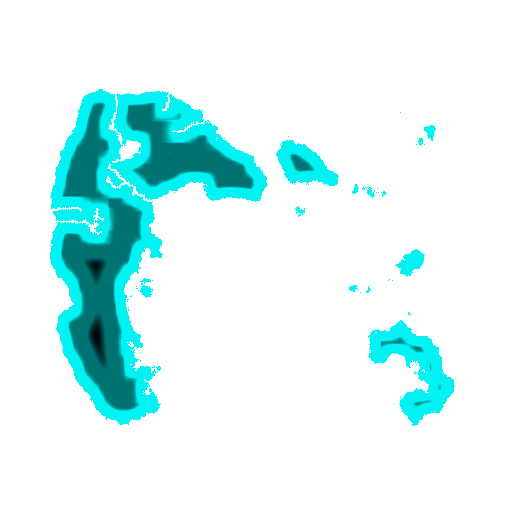
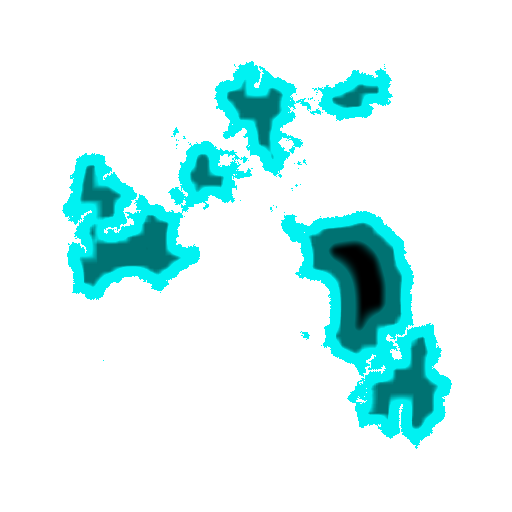
Implemented initial empire generation

diff --git a/src/generation/civ/CityGen.java b/src/generation/civ/CityGen.java
@@ -1,6 +1,7 @@
 package generation.civ;
 
 import java.util.ArrayList;
+import java.util.LinkedList;
 import java.util.List;
 import java.util.Random;
 
@@ -9,17 +10,19 @@ public class CityGen {
 	Random rGen;
 	List<City> cities;
 
+	public int maxID;
+	
 	public CityGen(long seed) {
 		rGen = new Random(seed);
 		cities = new ArrayList<City>();
 	}
 
 	public float[][] buildCities(float[][] heightmap, float[][] moisture, float[][] binary) {
-		
+
 		int size = moisture.length;
 		int numCities = size;
 
-		float[][] civMap = new float[size][size];
+		int[][] civMap = new int[size][size];
 
 		List<int[]> coords = new ArrayList<int[]>();
 
@@ -31,24 +34,120 @@ public class CityGen {
 				}
 			}
 		}
-		
+
+		int cityNum = 1;
+
 		for (int i = 0; i < numCities; i++) {
 			if (coords.size() == 0)
 				break;
 			int index = rGen.nextInt(coords.size());
 			int[] c = coords.get(index);
 			coords.remove(index);
-			civMap[c[0]][c[1]] = 1;
-			cities.add(new City(c[0], c[1]));
+			civMap[c[0]][c[1]] = cityNum;
+			cities.add(new City(c[0], c[1], cityNum++));
+		}
+
+		return growCities(civMap, binary);
+	}
+
+	private float[][] growCities(int[][] civMap, float[][] binaryMap) {
+		int size = civMap.length;
+		int openTiles = 0;
+		List<Territory> territories = new ArrayList<Territory>();
+		float[][] map = new float[size][size];
+		
+		int maxID = 0;
+		
+		for (int i = 0; i < size; i++) {
+			for (int j = 0; j < size; j++) {
+				if (binaryMap[i][j] > 0) openTiles ++;
+				if (civMap[i][j] > 0) {
+					territories.add(new Territory(civMap[i][j], i, j));
+					maxID = Math.max(maxID, civMap[i][j]);
+				}
+			}
+		}
+		System.out.println(maxID + " max");
+		
+		int limit = 100000;
+		
+		List<Territory> toAdd = new LinkedList<Territory>();
+		
+		while (openTiles > 0 && limit > 0) {
+			System.out.println(limit);
+			for (Territory t: territories) {
+				//pick a neighbor
+				int i = t.x; int j = t.y;
+				if (t.strength <= 1) {
+					t.strength++;
+				} else if (t.strength >=5 ) {
+				//donothing
+				} else {
+					switch(rGen.nextInt(6)) {
+					default:
+					case 0: //fortify!
+						t.strength ++;
+						break;
+					case 1:
+						if (binaryMap[i+1][j] > 0) {
+							if (civMap[i+1][j] == 0) {
+								openTiles--;
+								civMap[i+1][j] = t.id;
+								t.strength --;
+								toAdd.add(new Territory(t.id, i+1,j));
+							}
+						}
+						break;
+					case 2:
+						if (binaryMap[i-1][j] > 0) {
+							if (civMap[i-1][j] == 0) {
+								openTiles--;
+								civMap[i-1][j] = t.id;
+								t.strength --;
+								toAdd.add(new Territory(t.id, i-1,j));
+							}						}
+						break;
+					case 3:
+						if (binaryMap[i][j+1] > 0) {
+							if (civMap[i][j+1] == 0) {
+								openTiles--;
+								civMap[i][j+1] = t.id;
+								t.strength --;
+								toAdd.add(new Territory(t.id, i,j+1));
+
+							}						}
+						break;
+					case 4:
+						if (binaryMap[i][j-1] > 0) {
+							if (civMap[i][j-1] == 0) {
+								openTiles--;
+								civMap[i][j-1] = t.id;
+								t.strength --;
+								toAdd.add(new Territory(t.id, i,j-1));
+							}						}
+						break;
+					}
+				}
+			}
+			territories.addAll(toAdd);
+			toAdd.clear();
+			limit--;
 		}
 		
-		growCities(civMap, binary);
 		
-		return civMap;
-	}
-	
-	private void growCities(float[][] civMap, float[][] binaryMap) {
+		for (int i = 0; i < size; i++) {
+			for (int j = 0; j < size; j++) {
+				if (binaryMap[i][j] > 0) openTiles ++;
+				if (civMap[i][j] > 0) {
+					territories.add(new Territory(civMap[i][j], i, j));
+					maxID = Math.max(maxID, civMap[i][j]);
+				}
+				map[i][j] = civMap[i][j];
+			}
+		}
 		
+		this.maxID = maxID;
+		return map;
 	}
 
 }

diff --git a/src/generation/GenTest2.java b/src/generation/GenTest2.java
@@ -6,6 +6,7 @@ import generation.civ.CityGen;
 import java.awt.image.BufferedImage;
 import java.io.File;
 import java.io.IOException;
+import java.util.Random;
 
 import javax.imageio.ImageIO;
 
@@ -28,6 +29,8 @@ public class GenTest2 {
 
 	int size = 512; //bufferedimage size ~512 is recommended
 
+	Random rGen = new Random(seed);
+	
 	Heightmap heightGen;
 	ColorGen colorGen;
 	WaterGen waterGen;
@@ -109,6 +112,8 @@ public class GenTest2 {
 		//create images
 		int a = 255; //transparency
 
+		int[] cityColor = new int[cityGen.maxID+1];
+		
 		for (int i = 0; i < size; i++) {
 			for (int j = 0; j < size; j++) {
 
@@ -164,15 +169,18 @@ public class GenTest2 {
 
 				waterImage.setRGB(i, j, color);
 
+				int id = (int) cities[i][j];
+				if (id > 0) {
+					if (cityColor[id] == 0) {
+						r = rGen.nextInt(128) + 127;
+						g = rGen.nextInt(128) + 127;
+						b = rGen.nextInt(128) + 127;
+						color = (a << 24) | (r << 16) | (g << 8) | b;
+						cityColor[id] = color;
+					}
+				} 
 				
-				if (cities[i][j] > 0.5) {
-					r = 0; g = 0; b = 0;
-				} else if (cities[i][j] > 0) {
-					r = 128; g = 128; b = 128;
-				}
-				
-				color = (a << 24) | (r << 16) | (g << 8) | b;
-				cityImage.setRGB(i, j, color);
+				cityImage.setRGB(i, j, cityColor[id]);
 
 				r = 0; g = (int)(255*(moisture[i][j])); b = (int)(255*(moisture[i][j]));
 				if (moisture[i][j] == 1) r = 255;

diff --git a/src/generation/civ/City.java b/src/generation/civ/City.java
@@ -3,9 +3,12 @@ package generation.civ;
 public class City {
 
 	int x, y;
-
-	public City(int x, int y) {
-		this.x=x; this.y=y;
+	public 	int team;
+	int strength;
+	
+	public City(int x, int y, int team) {
+		this.x=x; this.y=y; this.team = team;
+		strength = 5;
 	}
 
 }

diff --git a/src/generation/civ/Territory.java b/src/generation/civ/Territory.java
@@ -1,0 +1,13 @@
+package generation.civ;
+
+public class Territory {
+
+	int id;
+	int strength = 0;
+	int x; int y;
+	
+	public Territory(int id, int x, int y) {
+		this.id = id; this.x=x; this.y=y;
+	}
+	
+}
